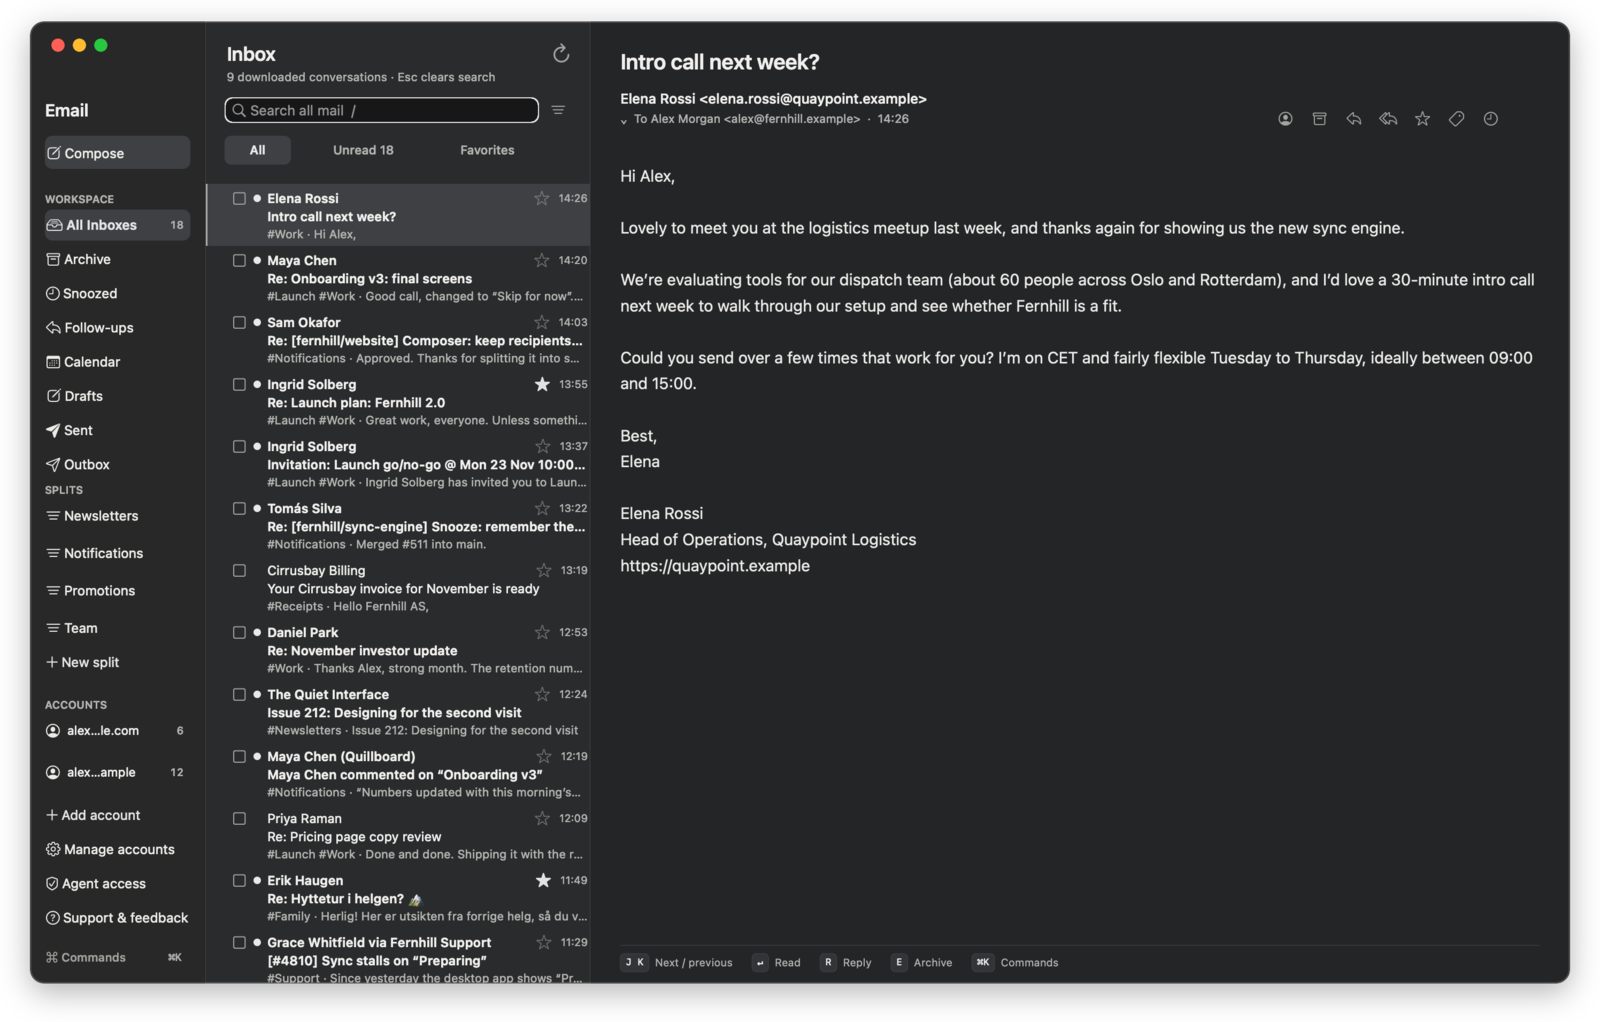
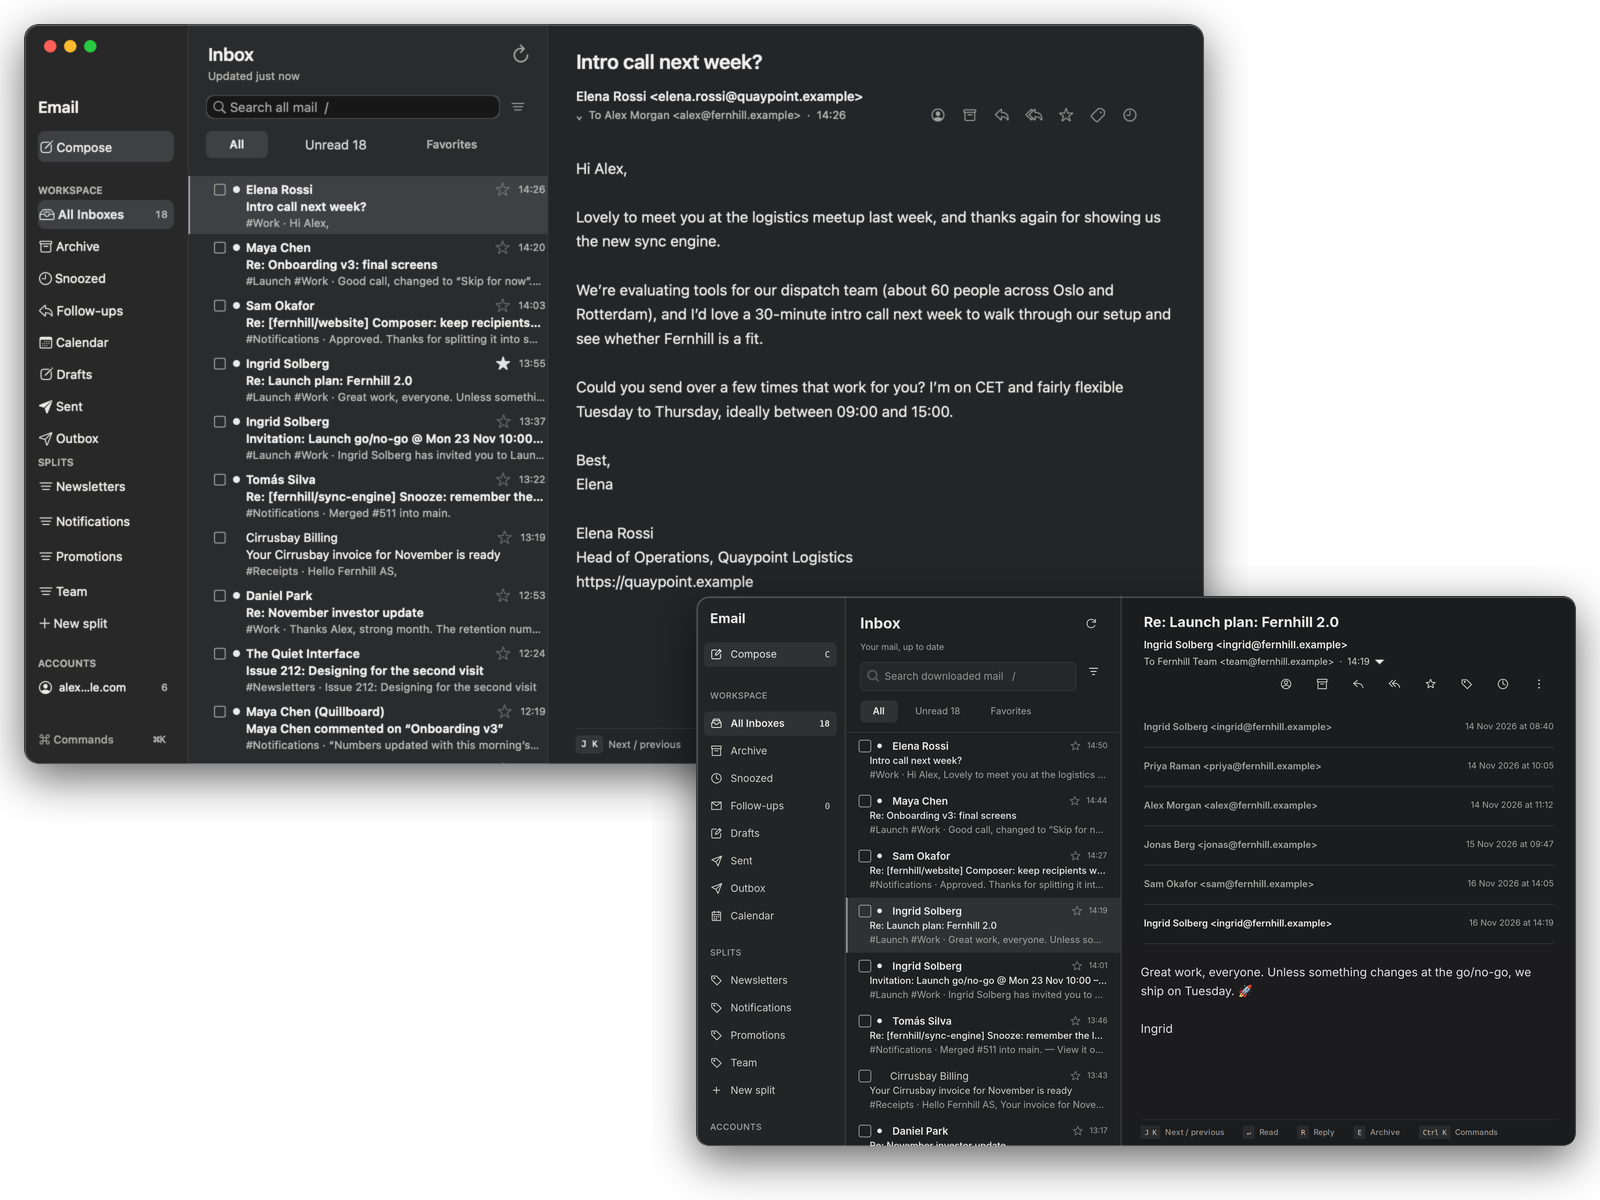
README: hero with the Mac and Linux apps, and agent requests
The hero now shows the Mac app with the Linux app in front of it, both
whole windows from the launch demo mailbox, in the viewer's light or
dark theme. "A quick look" adds the real Agent requests page with a
pending send from Claude Code.

The release checklist now marks betas as the latest release, so GitHub
shows Latest and /releases/latest resolves. v0.1.0-beta.3 was switched.

diff --git a/README.md b/README.md
@@ -17,7 +17,7 @@
 <p align="center">
   <picture>
     <source media="(prefers-color-scheme: dark)" srcset="assets/readme/hero-dark.png">
-    <img src="assets/readme/hero-light.png" width="800" alt="Email on macOS: the inbox, with a message from Elena Rossi open in the reader">
+    <img src="assets/readme/hero-light.png" width="800" alt="Email on macOS with a message from Elena Rossi open, and the Linux app in front of it showing a team thread">
   </picture>
 </p>
 
@@ -50,6 +50,14 @@ every account.
 Linux.
 
 <img src="assets/readme/palette.gif" width="800" alt="Opening the command palette and filtering its commands by typing">
+
+**Agents ask before they send.** When an agent wants to send an email, it waits
+under Agent requests until you send, edit or drop it.
+
+<picture>
+  <source media="(prefers-color-scheme: dark)" srcset="assets/readme/agents-dark.png">
+  <img src="assets/readme/agents-light.png" width="800" alt="The Agent requests page: Claude Code wants to send a reply to Elena Rossi, with Don't send, Edit and Send buttons">
+</picture>
 
 ## Features
 

diff --git a/docs/release-checklist.md b/docs/release-checklist.md
@@ -129,10 +129,11 @@ package for its architecture.
 ## 7. GitHub release
 
 - [ ] Tag the release commit `v0.2.0-beta.1` and push the tag.
-- [ ] Create the GitHub release from the tag, marked as a pre-release for a
-      beta, with the `.deb` files, the macOS downloads (DMG or zip), the
-      Linux binaries and `SHA256SUMS`. Check the uploaded assets against
-      their checksums.
+- [ ] Create the GitHub release from the tag and mark it as the latest
+      release, also for a beta (the version name already says beta, and a
+      pre-release never shows as Latest on GitHub). Attach the `.deb` files,
+      the macOS downloads (DMG or zip), the Linux binaries and `SHA256SUMS`.
+      Check the uploaded assets against their checksums.
 - [ ] Record the AUR checksums on `main` ([AUR packages](linux-aur.md)).
 
 ## 8. Check the update path
